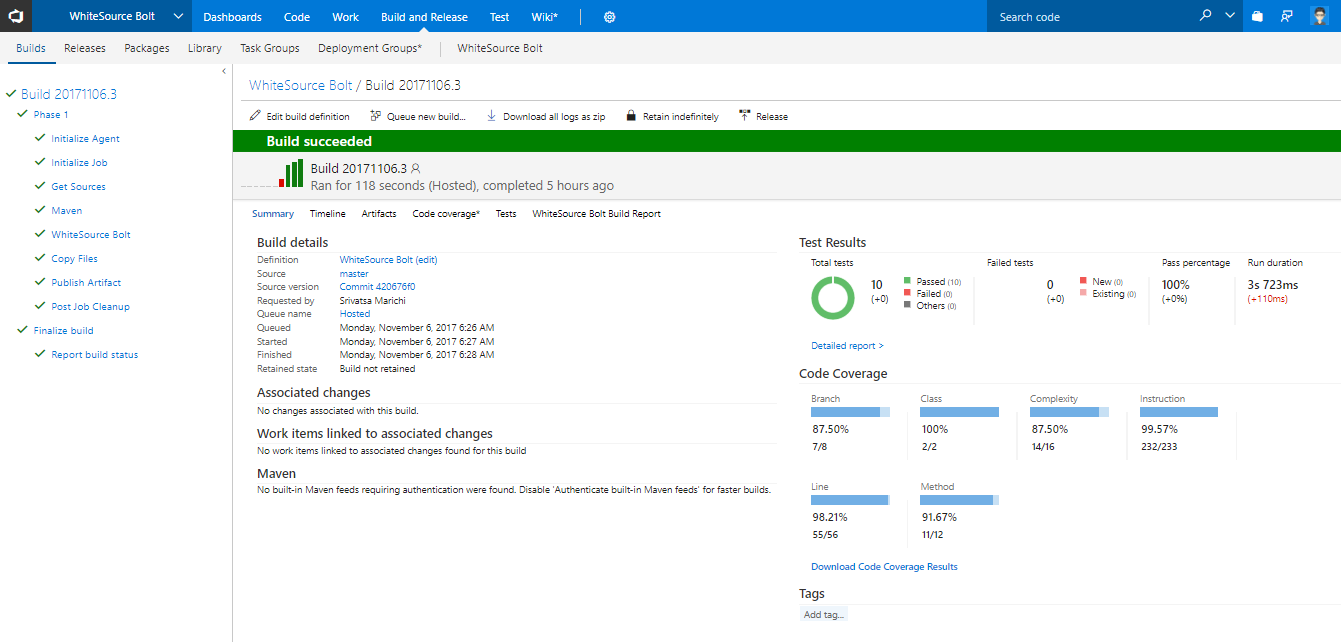
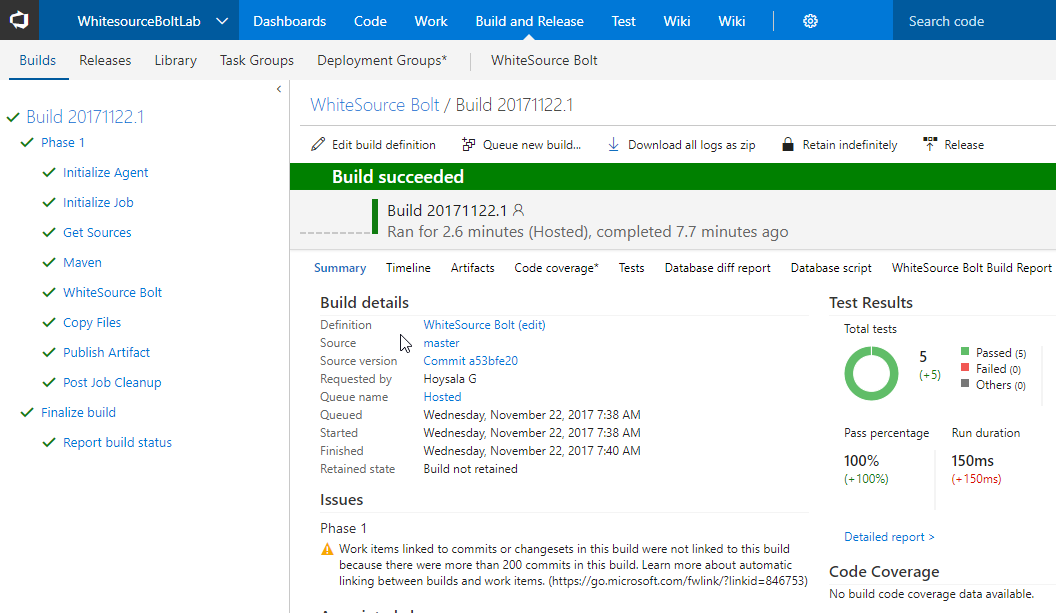
updated content and screenshots

diff --git a/whitesource/readme.md b/whitesource/readme.md
@@ -28,9 +28,12 @@ For more information, visit <a href="http://docs.whitesourcesoftware.com/display
 
 ## Exercise 1: Activate WhiteSource Bolt
 
-In your Team project, under **Build and Release** section, go to **White Source Bolt** tab and activate **14 days** trial license.
+After installing the extension, you will need to activate your project with an activation code.
 
-If you are an active MSDN subscriber, click here to get key from your <a href="https://my.visualstudio.com/Benefits?wt.mc_id=o~msft~profile~devprogram_attach&workflowid=devprogram&mkt=en-us" target=_blank> Dev Essentials page</a>
+In your Team project, under **Build and Release** section, go to **White Source Bolt** tab and activate **14-days** <a href="https://www.whitesourcesoftware.com/whitesource_bolt_visualstudio_2017/#activate">trial license</a>.
+
+If you are a Visual Studio Enterprise subscriber, you are entitled to 6-months free subscription. You can get your activation code from the <a href="https://my.visualstudio.com/"> Visual Studio Enterprise benefit page</a> and follow the <a href="https://www.whitesourcesoftware.com/vse_whitesource_bolt//#activate">instructions</a>.
+
 
 <img src="images/Dev_Essentials.png">
 
@@ -48,7 +51,7 @@ We have a **Java code** provisioned by the demo generator system. We will use **
 
 1. Go to **Build and Release** tab and check if the build is triggered.
 
-   <img src="images/QueueBuild.png">
+  <img src="images/QueueBuild.png">
 
 2. You can see the build in progress status. 
 
@@ -65,25 +68,25 @@ We have a **Java code** provisioned by the demo generator system. We will use **
    </thead>
    <tr>
       <td><a href="http://bit.ly/2lvftfo"><b>Maven</b></a> <img src="images/maven.png"></td>
-      <td>builds Java code </td>
+      <td>builds Java code with the provided pom xml file </td>
    </tr>
    <tr>
       <td><a href="http://bit.ly/1Vxz1Jb"><b>WhiteSource Bolt</b></a> <img src="images/whitesourcebolt.png"> </td>
-      <td>scans the code to detect security vulnerabilities, problematic open source licenses</td>
+      <td>scans the code in the provided working directory/root directory to detect security vulnerabilities, problematic open source licenses</td>
    </tr>
    <tr>
       <td><a href=""><b>Copy Files</b></a> <img src="images/copy-files.png"> </td>
-      <td>copies files from source to destination folder using match patterns </td>
+      <td>copies the resulting JAR files from source to destination folder using match patterns </td>
    </tr>
    <tr>
       <td><a href=""><b>Publish Build Artifacts</b></a> <img src="images/publish-build-artifacts.png"> </td>
-      <td>shares the artifacts produced by the build </td>
+      <td>publishes the artifacts produced by the build </td>
    </tr>
    </table>
 
 4. Once the build is completed, you will see the summary which shows **test results, code coverage** as shown below.
 
-   <img src="images/build_summary.png">
+<img src="images/build_summary.png">
 
 5. From the build summary, go to **Whitesource Bolt Build Report** to see the vulnerability report.
 
